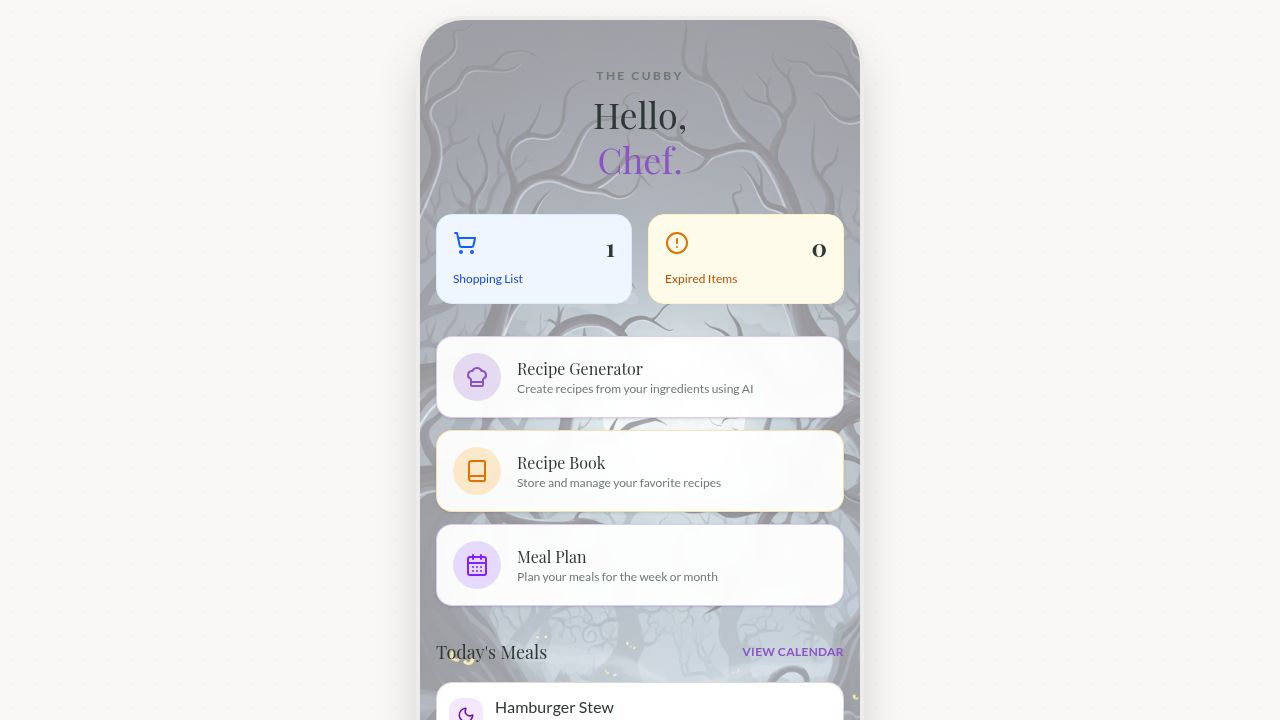
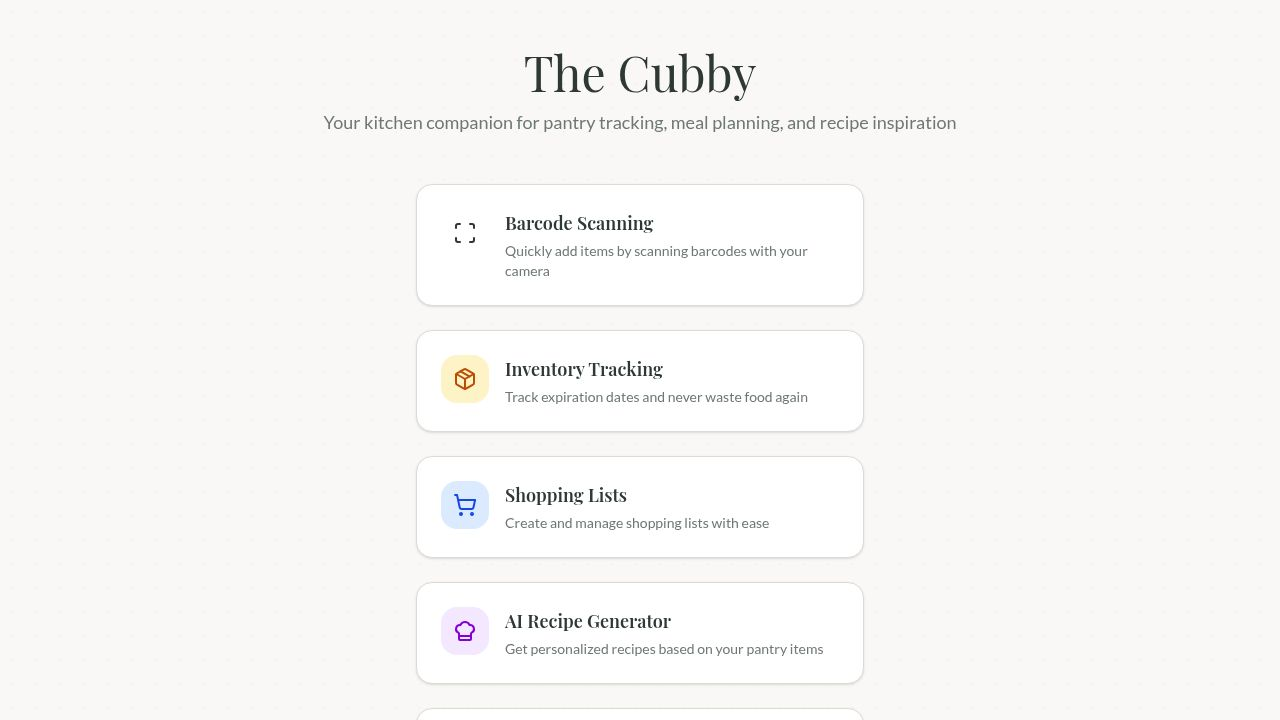
Improve barcode scanning accuracy by checking multiple sources
Enhance barcode lookup by querying Open Food Facts (global and US), Open Beauty Facts, UPCitemdb, and Go-UPC in parallel, with improved data extraction and fallback logic for product information.

Replit-Commit-Author: Agent
Replit-Commit-Session-Id: 87574023-dd16-4787-818e-6c679730f929
Replit-Commit-Checkpoint-Type: full_checkpoint
Replit-Commit-Event-Id: f6823278-7114-4ae9-999e-26a313ba5394
Replit-Commit-Screenshot-Url: https://storage.googleapis.com/screenshot-production-us-central1/44ab8749-9f12-40c9-b5f8-9cd77915b291/87574023-dd16-4787-818e-6c679730f929/PsAtajj
Replit-Helium-Checkpoint-Created: true

Changed region(s): [[0.25, 0.0306, 0.75, 1.0]]

diff --git a/server/routes.ts b/server/routes.ts
@@ -64,61 +64,131 @@ export async function registerRoutes(
   app.get("/api/upc/:barcode", async (req, res) => {
     const { barcode } = req.params;
     
+    // Helper to extract nutrition data from Open Food Facts
+    const extractNutrition = (nutriments: any) => {
+      const nutritionData: Record<string, string | number | null> = {};
+      if (nutriments['energy-kcal_100g']) nutritionData.calories = nutriments['energy-kcal_100g'];
+      if (nutriments.proteins_100g) nutritionData.protein = nutriments.proteins_100g;
+      if (nutriments.carbohydrates_100g) nutritionData.carbs = nutriments.carbohydrates_100g;
+      if (nutriments.fat_100g) nutritionData.fat = nutriments.fat_100g;
+      if (nutriments.fiber_100g) nutritionData.fiber = nutriments.fiber_100g;
+      if (nutriments.sugars_100g) nutritionData.sugar = nutriments.sugars_100g;
+      if (nutriments.sodium_100g) nutritionData.sodium = nutriments.sodium_100g;
+      return Object.keys(nutritionData).length > 0 ? nutritionData : null;
+    };
+
+    // Helper to format Open Food Facts response
+    const formatOpenFoodFactsResponse = (product: any, source: string) => ({
+      found: true,
+      name: product.product_name || product.product_name_en || product.generic_name || null,
+      brand: product.brands || null,
+      category: guessCategory(product.categories_tags || product.categories?.split(',') || []),
+      quantity: product.quantity || product.product_quantity || null,
+      imageUrl: product.image_front_url || product.image_url || product.image_front_small_url || null,
+      ingredients: product.ingredients_text || product.ingredients_text_en || null,
+      allergens: product.allergens_tags?.map((a: string) => a.replace('en:', '')) || [],
+      nutrition: extractNutrition(product.nutriments || {}),
+      servingSize: product.serving_size || null,
+      nutriscore: product.nutriscore_grade || null,
+      novaGroup: product.nova_group || null,
+      countries: product.countries || null,
+      source,
+    });
+
     try {
-      const response = await fetch(`https://world.openfoodfacts.org/api/v0/product/${barcode}.json`);
-      const data = await response.json();
-      
-      if (data.status === 1 && data.product) {
-        const product = data.product;
-        
-        const nutriments = product.nutriments || {};
-        const nutritionData: Record<string, string | number | null> = {};
-        if (nutriments['energy-kcal_100g']) nutritionData.calories = nutriments['energy-kcal_100g'];
-        if (nutriments.proteins_100g) nutritionData.protein = nutriments.proteins_100g;
-        if (nutriments.carbohydrates_100g) nutritionData.carbs = nutriments.carbohydrates_100g;
-        if (nutriments.fat_100g) nutritionData.fat = nutriments.fat_100g;
-        if (nutriments.fiber_100g) nutritionData.fiber = nutriments.fiber_100g;
-        if (nutriments.sugars_100g) nutritionData.sugar = nutriments.sugars_100g;
-        if (nutriments.sodium_100g) nutritionData.sodium = nutriments.sodium_100g;
-        
-        res.json({
-          found: true,
-          name: product.product_name || product.generic_name || null,
-          brand: product.brands || null,
-          category: guessCategory(product.categories_tags || []),
-          quantity: product.quantity || null,
-          imageUrl: product.image_front_url || product.image_url || null,
-          ingredients: product.ingredients_text || null,
-          allergens: product.allergens_tags?.map((a: string) => a.replace('en:', '')) || [],
-          nutrition: Object.keys(nutritionData).length > 0 ? nutritionData : null,
-          servingSize: product.serving_size || null,
-          nutriscore: product.nutriscore_grade || null,
-          novaGroup: product.nova_group || null,
-          countries: product.countries || null,
-          source: 'openfoodfacts',
-        });
-      } else {
-        const upcResponse = await fetch(`https://api.upcitemdb.com/prod/trial/lookup?upc=${barcode}`);
-        const upcData = await upcResponse.json();
-        
-        if (upcData.items && upcData.items.length > 0) {
-          const item = upcData.items[0];
-          res.json({
-            found: true,
-            name: item.title || null,
-            brand: item.brand || null,
-            category: guessCategory(item.category ? [item.category] : []),
-            quantity: null,
-            imageUrl: item.images?.[0] || null,
-            description: item.description || null,
-            ean: item.ean || null,
-            upc: item.upc || null,
-            source: 'upcitemdb',
-          });
-        } else {
-          res.json({ found: false });
+      // Try multiple Open Food Facts endpoints in parallel for better coverage
+      const [worldResponse, usResponse] = await Promise.all([
+        fetch(`https://world.openfoodfacts.org/api/v0/product/${barcode}.json`).catch(() => null),
+        fetch(`https://us.openfoodfacts.org/api/v0/product/${barcode}.json`).catch(() => null),
+      ]);
+
+      // Check world.openfoodfacts.org first
+      if (worldResponse?.ok) {
+        const data = await worldResponse.json();
+        if (data.status === 1 && data.product && data.product.product_name) {
+          return res.json(formatOpenFoodFactsResponse(data.product, 'openfoodfacts-world'));
         }
       }
+
+      // Check US-specific Open Food Facts
+      if (usResponse?.ok) {
+        const usData = await usResponse.json();
+        if (usData.status === 1 && usData.product && usData.product.product_name) {
+          return res.json(formatOpenFoodFactsResponse(usData.product, 'openfoodfacts-us'));
+        }
+      }
+
+      // Try Open Beauty Facts for personal care items
+      try {
+        const beautyResponse = await fetch(`https://world.openbeautyfacts.org/api/v0/product/${barcode}.json`);
+        if (beautyResponse.ok) {
+          const beautyData = await beautyResponse.json();
+          if (beautyData.status === 1 && beautyData.product && beautyData.product.product_name) {
+            return res.json({
+              found: true,
+              name: beautyData.product.product_name || null,
+              brand: beautyData.product.brands || null,
+              category: 'other',
+              quantity: beautyData.product.quantity || null,
+              imageUrl: beautyData.product.image_front_url || beautyData.product.image_url || null,
+              ingredients: beautyData.product.ingredients_text || null,
+              source: 'openbeautyfacts',
+            });
+          }
+        }
+      } catch (e) {
+        // Continue to next source
+      }
+
+      // Try UPCitemdb as fallback
+      try {
+        const upcResponse = await fetch(`https://api.upcitemdb.com/prod/trial/lookup?upc=${barcode}`);
+        if (upcResponse.ok) {
+          const upcData = await upcResponse.json();
+          if (upcData.items && upcData.items.length > 0) {
+            const item = upcData.items[0];
+            return res.json({
+              found: true,
+              name: item.title || null,
+              brand: item.brand || null,
+              category: guessCategory(item.category ? [item.category] : []),
+              quantity: null,
+              imageUrl: item.images?.[0] || null,
+              description: item.description || null,
+              ean: item.ean || null,
+              upc: item.upc || null,
+              source: 'upcitemdb',
+            });
+          }
+        }
+      } catch (e) {
+        // Continue to next source
+      }
+
+      // Try Go-UPC API as another fallback (free tier)
+      try {
+        const goUpcResponse = await fetch(`https://go-upc.com/api/v1/code/${barcode}`);
+        if (goUpcResponse.ok) {
+          const goUpcData = await goUpcResponse.json();
+          if (goUpcData.product && goUpcData.product.name) {
+            return res.json({
+              found: true,
+              name: goUpcData.product.name || null,
+              brand: goUpcData.product.brand || null,
+              category: guessCategory(goUpcData.product.category ? [goUpcData.product.category] : []),
+              quantity: null,
+              imageUrl: goUpcData.product.imageUrl || null,
+              description: goUpcData.product.description || null,
+              source: 'go-upc',
+            });
+          }
+        }
+      } catch (e) {
+        // Continue
+      }
+
+      // No product found in any source
+      res.json({ found: false, barcode, message: "Product not found in any database" });
     } catch (error) {
       console.error("UPC lookup error:", error);
       res.json({ found: false, error: "Lookup failed" });